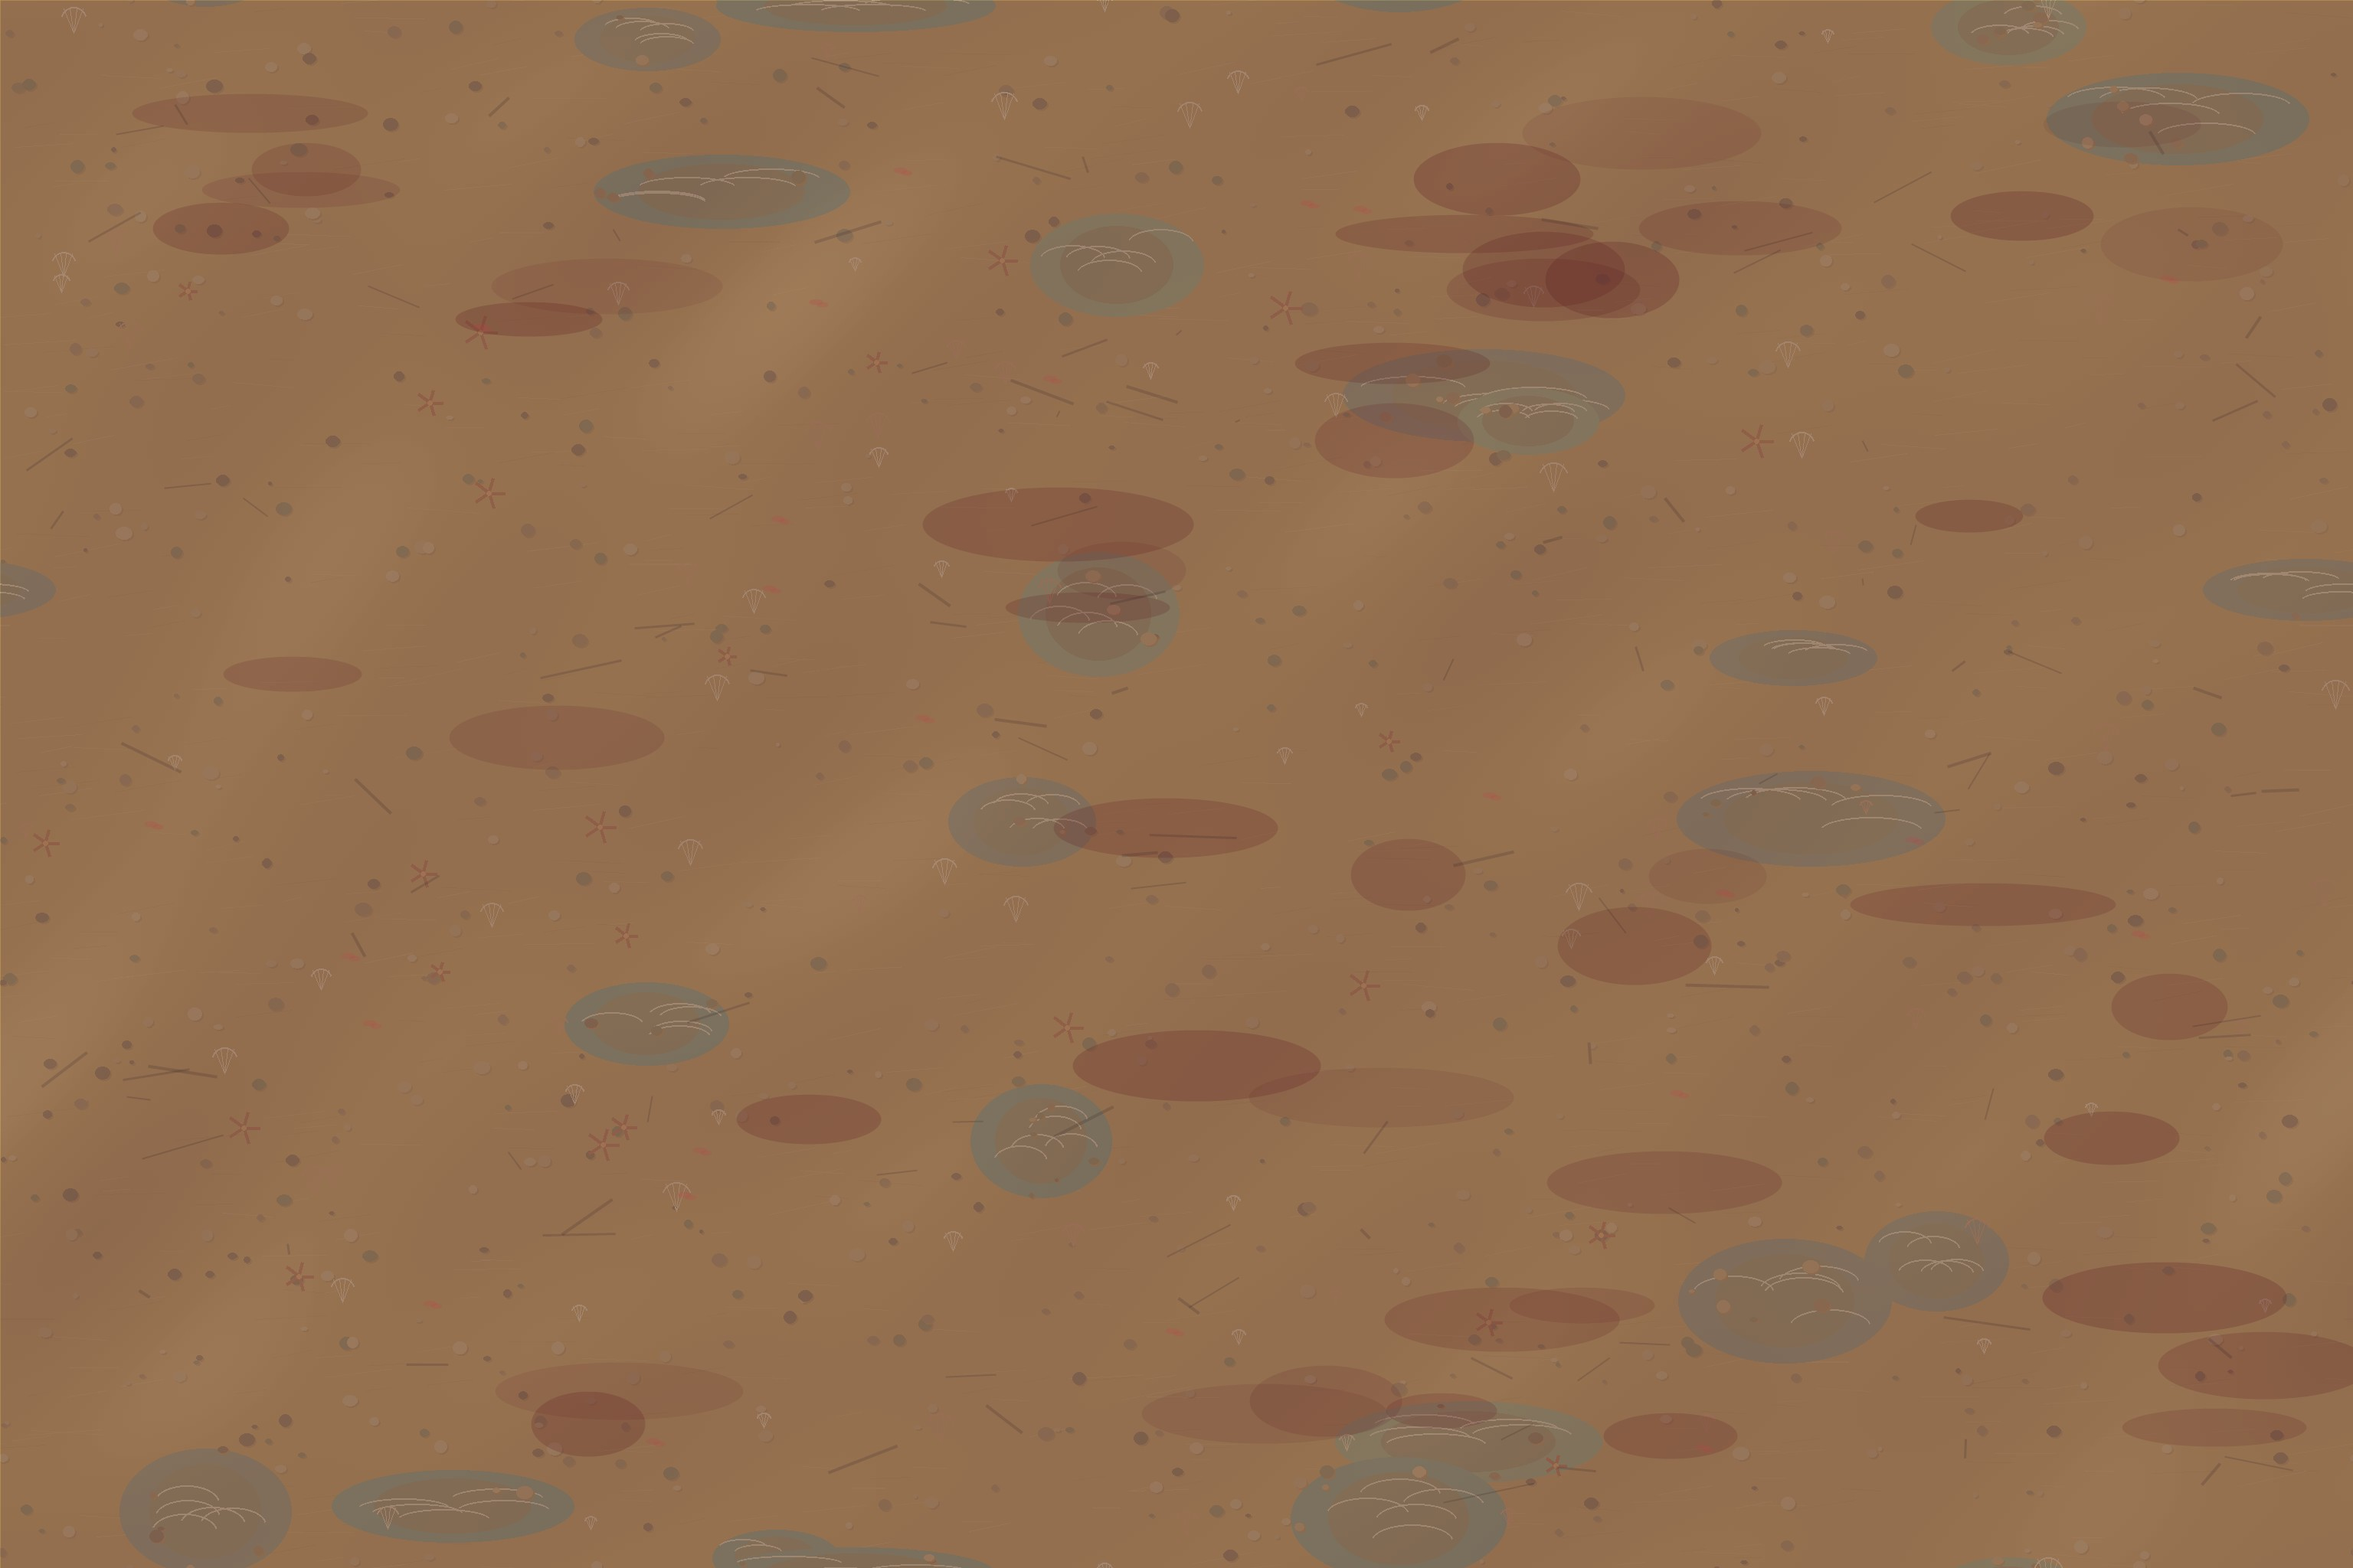
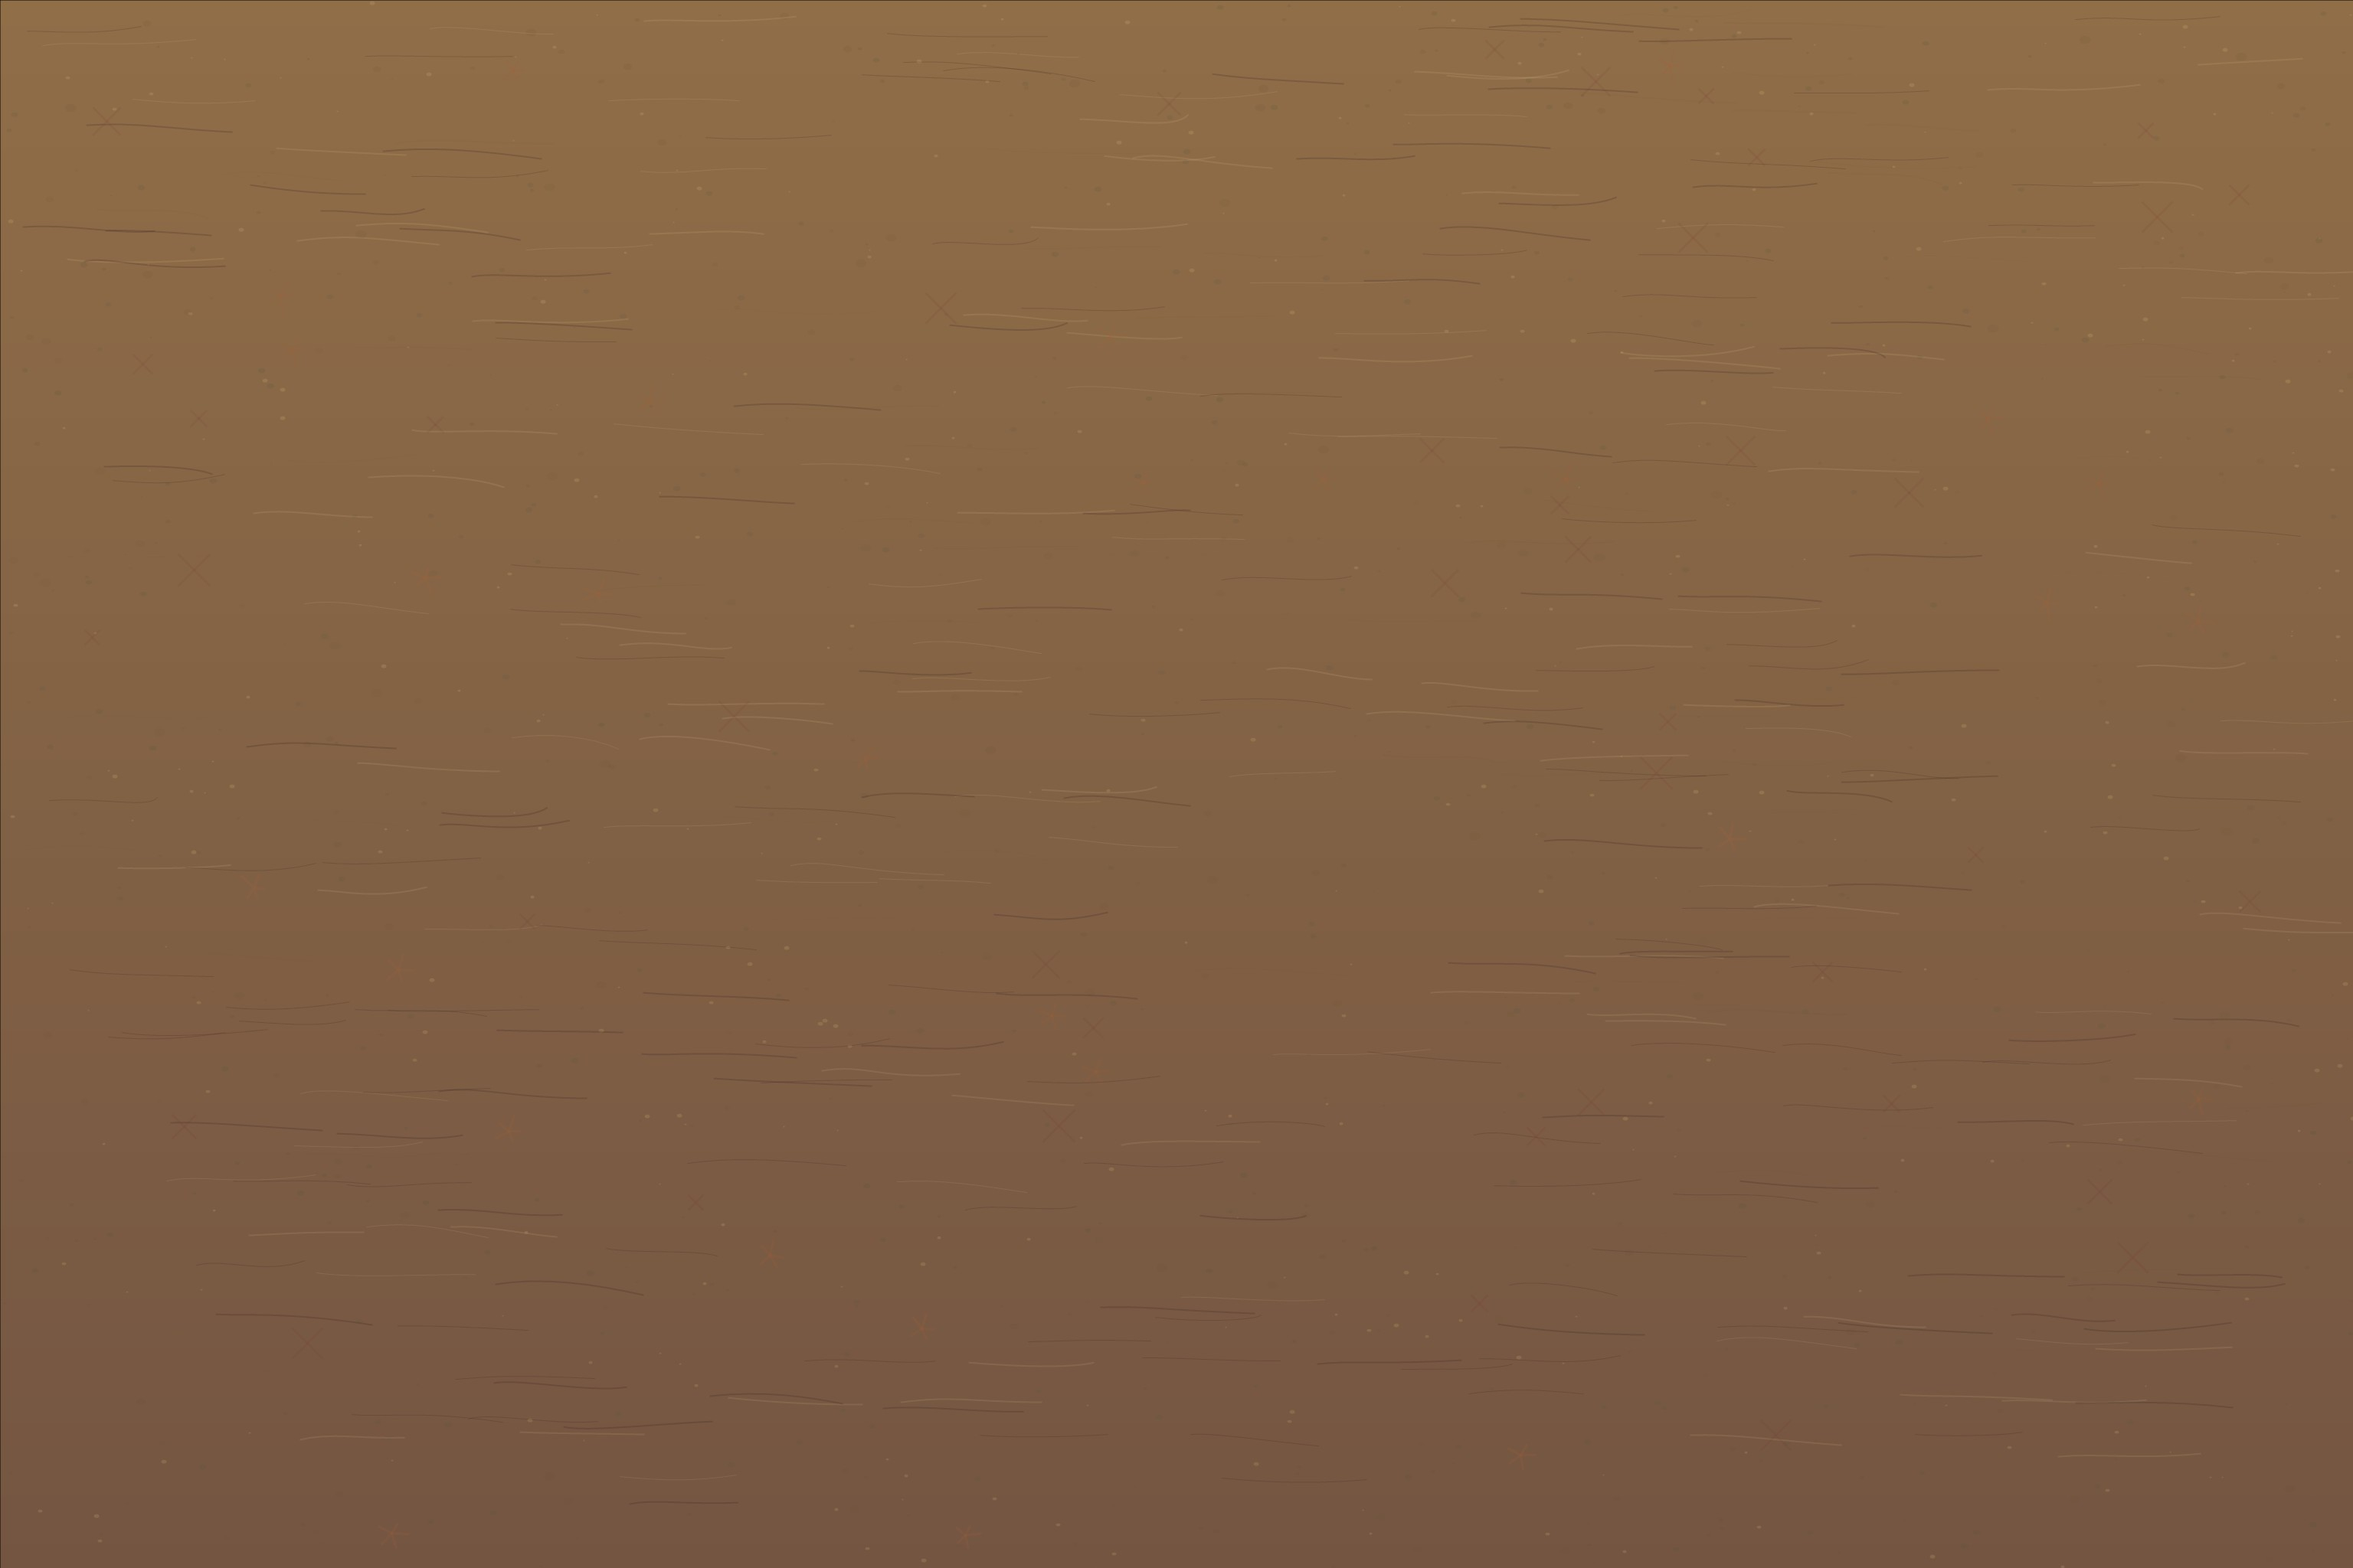
Fix Sam Max slicing and clean puddle backgrounds

diff --git a/monkey-tide-survivors/game.js b/monkey-tide-survivors/game.js
@@ -38,7 +38,7 @@ const ui = {
 };
 
 const imageSources = {
-  repeatBeach: "assets/backgrounds/topdown_beach_repeatable_hd.png",
+  repeatBeach: "assets/backgrounds/topdown_beach_repeatable_clean_hd.jpg",
   mapMoonlitLagoon: "assets/backgrounds/map_moonlit_lagoon_hd.jpg",
   mapGothicCove: "assets/backgrounds/map_gothic_cove_hd.jpg",
   mapTreasureAtoll: "assets/backgrounds/map_treasure_atoll_hd.jpg",
@@ -46,6 +46,7 @@ const imageSources = {
   playerSkins: "assets/sprites/player_skins_imagen_hd.webp",
   playerSkinWalks: "assets/sprites/player_skin_walkcycles_imagen_hd.webp?v=starfarmboy-clean",
   playerSkinSelect: "assets/sprites/player_skin_select_imagen_hd.webp",
+  samMaxDuo: "assets/sprites/sam_max_duo_fixed_hd.png",
   items: "assets/sprites/scene_items_imagen_hd_sheet.webp",
   newSprites: "assets/sprites/new_sprites_imagen_hd.webp",
   gothicEnemies: "assets/sprites/gothic_enemies_hd_sheet.webp",
@@ -159,7 +160,7 @@ const playerSkinMap = {
   dhampirHunter: { name: "Dhampir-Jaeger", sheet: "playerSkins", x: 1024, y: 28, w: 294, h: 484, drawH: 150, animH: 176, animRow: 2, cellX: 2, cellY: 0 },
   rumCorsair: { name: "Rum-Korsar", sheet: "playerSkins", x: 58, y: 513, w: 413, h: 494, drawH: 150, animH: 178, animRow: 3, cellX: 0, cellY: 1 },
   starFarmboy: { name: "Sternenfarmboy", sheet: "playerSkins", x: 543, y: 514, w: 375, h: 486, drawH: 142, animH: 168, animRow: 4, cellX: 1, cellY: 1 },
-  freelanceDuo: { name: "Freelance-Duo", sheet: "playerSkins", x: 1054, y: 512, w: 319, h: 485, drawH: 140, animH: 176, animRow: 5, cellX: 2, cellY: 1 },
+  freelanceDuo: { name: "Freelance-Duo", sheet: "samMaxDuo", drawH: 150, cellX: 2, cellY: 1 },
 };
 const playerSkinIds = Object.keys(playerSkinMap);
 let selectedSkin = (() => {
@@ -947,6 +948,9 @@ async function boot() {
 }
 
 function skinIconStyle(id) {
+  if (id === "freelanceDuo") {
+    return `background-image:url('${imageSources.samMaxDuo}');background-size:contain;background-repeat:no-repeat;background-position:center 58%;`;
+  }
   const index = Math.max(0, playerSkinIds.indexOf(id));
   const x = index / Math.max(1, PLAYER_SKIN_SELECT.cols - 1) * 100;
   return `background-image:url('${imageSources.playerSkinSelect}');background-size:${PLAYER_SKIN_SELECT.cols * 100}% 100%;background-position:${x}% 100%;`;
@@ -2289,7 +2293,7 @@ function drawWorld() {
   const ox = scene.w / 2 - cam.x;
   const oy = scene.h / 2 - cam.y;
   const variant = mapVariant(state.map);
-  drawRepeatingMap(mapBackgroundImage(variant), ox, oy);
+  drawWorldMap(mapBackgroundImage(variant), ox, oy);
   drawMapTint(variant);
   drawNaturalGroundDetails(ox, oy, variant);
 }
@@ -2298,16 +2302,8 @@ function mapBackgroundImage(variant = mapVariant(state.map)) {
   return images[variant.background] || images.repeatBeach;
 }
 
-function drawRepeatingMap(image, ox, oy) {
-  const tileW = image.width;
-  const tileH = image.height;
-  const startX = positiveModulo(ox, tileW) - tileW;
-  const startY = positiveModulo(oy, tileH) - tileH;
-  for (let x = startX; x < scene.w + tileW; x += tileW) {
-    for (let y = startY; y < scene.h + tileH; y += tileH) {
-      ctx.drawImage(image, x, y, tileW, tileH);
-    }
-  }
+function drawWorldMap(image, ox, oy) {
+  ctx.drawImage(image, ox, oy, WORLD.w, WORLD.h);
 }
 
 function drawMapTint(variant) {
@@ -2334,13 +2330,13 @@ function drawNaturalGroundDetails(ox, oy, variant = mapVariant(state.map)) {
       const lagoon = variant.detail === "lagoon";
       const gothic = variant.detail === "gothic";
       const treasure = variant.detail === "treasure";
-      if (h % (lagoon ? 11 : 17) === 0 || h % (treasure ? 23 : 31) === 0) {
-        const icon = gothic && h % 23 === 0 ? "gothicCandelabra" : h % 31 === 0 ? "tidePuddle" : "clearPuddle";
+      if (h % (lagoon ? 19 : 41) === 0 || (treasure && h % 47 === 0)) {
+        const icon = gothic && h % 23 === 0 ? "gothicCandelabra" : lagoon ? "tidePuddle" : "clearPuddle";
         const px = ox + x + 30 + ((h >> 6) % 160);
         const py = oy + y + 30 + ((h >> 13) % 150);
         const w = gothic && icon === "gothicCandelabra" ? 54 : 104 + (h % 42);
         const ph = gothic && icon === "gothicCandelabra" ? 54 : 74 + ((h >> 4) % 28);
-        drawItem(icon, px, py, w, ph, ((h >> 18) % 628) / 100, icon === "tidePuddle" ? 0.34 : 0.3);
+        drawItem(icon, px, py, w, ph, ((h >> 18) % 628) / 100, icon === "tidePuddle" ? 0.4 : 0.34);
       }
     }
   }
@@ -2467,7 +2463,13 @@ function drawPlayer() {
     ctx.shadowColor = "rgba(0,0,0,0.55)";
     ctx.shadowBlur = 14;
   }
-  if (skin.animRow !== undefined && images.playerSkinWalks) {
+  if (skin.sheet === "samMaxDuo" && images.samMaxDuo) {
+    const bob = moving ? Math.sin(state.elapsed * 13) * 3.4 : Math.sin(state.elapsed * 3.2) * 1.2;
+    const stretch = moving ? 1 + Math.sin(state.elapsed * 18) * 0.018 : 1;
+    const h = skin.drawH * stretch;
+    const w = h * (images.samMaxDuo.width / images.samMaxDuo.height);
+    ctx.drawImage(images.samMaxDuo, -w / 2, -h + 30 + bob, w, h);
+  } else if (skin.animRow !== undefined && images.playerSkinWalks) {
     const frame = moving ? Math.floor(state.elapsed * 12) % PLAYER_SKIN_WALK.cols : 0;
     const sx = frame * PLAYER_SKIN_WALK.w;
     const sy = skin.animRow * PLAYER_SKIN_WALK.h;
@@ -3134,8 +3136,10 @@ window.__MONKEY_TIDE_DEBUG = () => {
   playerSkinAsset: !!images.playerSkins,
   playerSkinAnimationAsset: !!images.playerSkinWalks,
   playerSkinSelectAsset: !!images.playerSkinSelect,
+  playerSkinFixedDuoAsset: !!images.samMaxDuo,
   playerSkinAnimationFrames: { cols: PLAYER_SKIN_WALK.cols, rows: PLAYER_SKIN_WALK.rows },
   playerSkinAnimated: playerSkinMap[state.player.skin]?.animRow !== undefined && !!images.playerSkinWalks,
+  playerSkinRenderSheet: playerSkinMap[state.player.skin]?.sheet || "characters",
   stats: { ...state.stats, nextXp: state.nextXp },
   engagement: { streak: { ...state.streak }, activeUpgradeChoices: activeUpgradeChoices.map((upgrade) => upgrade.id), selectedUpgradeIndex },
   map: {
@@ -3145,6 +3149,7 @@ window.__MONKEY_TIDE_DEBUG = () => {
     selectedMusic: mapMusicProfile(state.map),
     variants: mapVariants.map((map) => map.id),
     backgrounds: Object.fromEntries(mapVariants.map((map) => [map.id, map.background])),
+    cleanSandBackground: imageSources.repeatBeach.includes("clean_hd"),
     musicProfiles: Object.fromEntries(mapVariants.map((map) => [map.id, mapMusicProfile(map.id)])),
     unlocked: [...metaProgress.unlockedMaps],
   },

diff --git a/monkey-tide-survivors/index.html b/monkey-tide-survivors/index.html
@@ -4,7 +4,7 @@
     <meta charset="utf-8">
     <meta name="viewport" content="width=device-width, initial-scale=1, viewport-fit=cover">
     <title>Monkey Tide Survivors</title>
-    <link rel="stylesheet" href="style.css?v=map-bgm-obstacles">
+    <link rel="stylesheet" href="style.css?v=fixed-duo-clean-sand">
   </head>
   <body>
     <main id="app" aria-label="Monkey Tide Survivors">
@@ -82,6 +82,6 @@
         <button id="dashButton" class="dash-button" type="button" title="Dash">DASH</button>
       </div>
     </main>
-    <script src="game.js?v=map-bgm-obstacles"></script>
+    <script src="game.js?v=fixed-duo-clean-sand"></script>
   </body>
 </html>

diff --git a/monkey-tide-survivors/README.md b/monkey-tide-survivors/README.md
@@ -29,6 +29,8 @@ Ein eigenstaendiges Vampire-Survivors-artiges Browsergame mit lokal wiederverwen
 - Treibenderer lokaler BGM-Mix aus `Crimson Galleon` als Main-Track und `Gargoyle Chapel Run` als frueher Rush-Layer; SFX bleiben leise darunter.
 - BGM laeuft jetzt als ein eindeutiger aktiver Track mit Rush-Handoff statt zwei ueberlappender MP3-Spuren.
 - Jede Karte nutzt ein eigenes leichtes HD-Background-Asset und ein eigenes lokales BGM-Profil.
+- Strand-Backgrounds sind jetzt pfuetzenfrei; Wasserstellen kommen nur noch als reduzierte HD-Raster-Decals.
+- Sam-und-Max/Freelance-Duo nutzt ein eigenes sauber gecropptes HD-Duo-Sprite statt der zu engen Walkcycle-Zelle.
 - Map-spezifische Busch-/Hecken-Hindernisse nutzen die HD-Prop-Assets und bleiben Teil der Kollisionslogik.
 - Upgrade-Auswahl pausiert den Run nur noch in groesseren Abstaenden; Zwischenlevel geben nicht-blockierende Flow-Boni.
 - Vier Kartenvarianten mit Map-Auswahl, gespeicherten Achievements, freischaltbaren Karten und kleinen Startrelikten.
